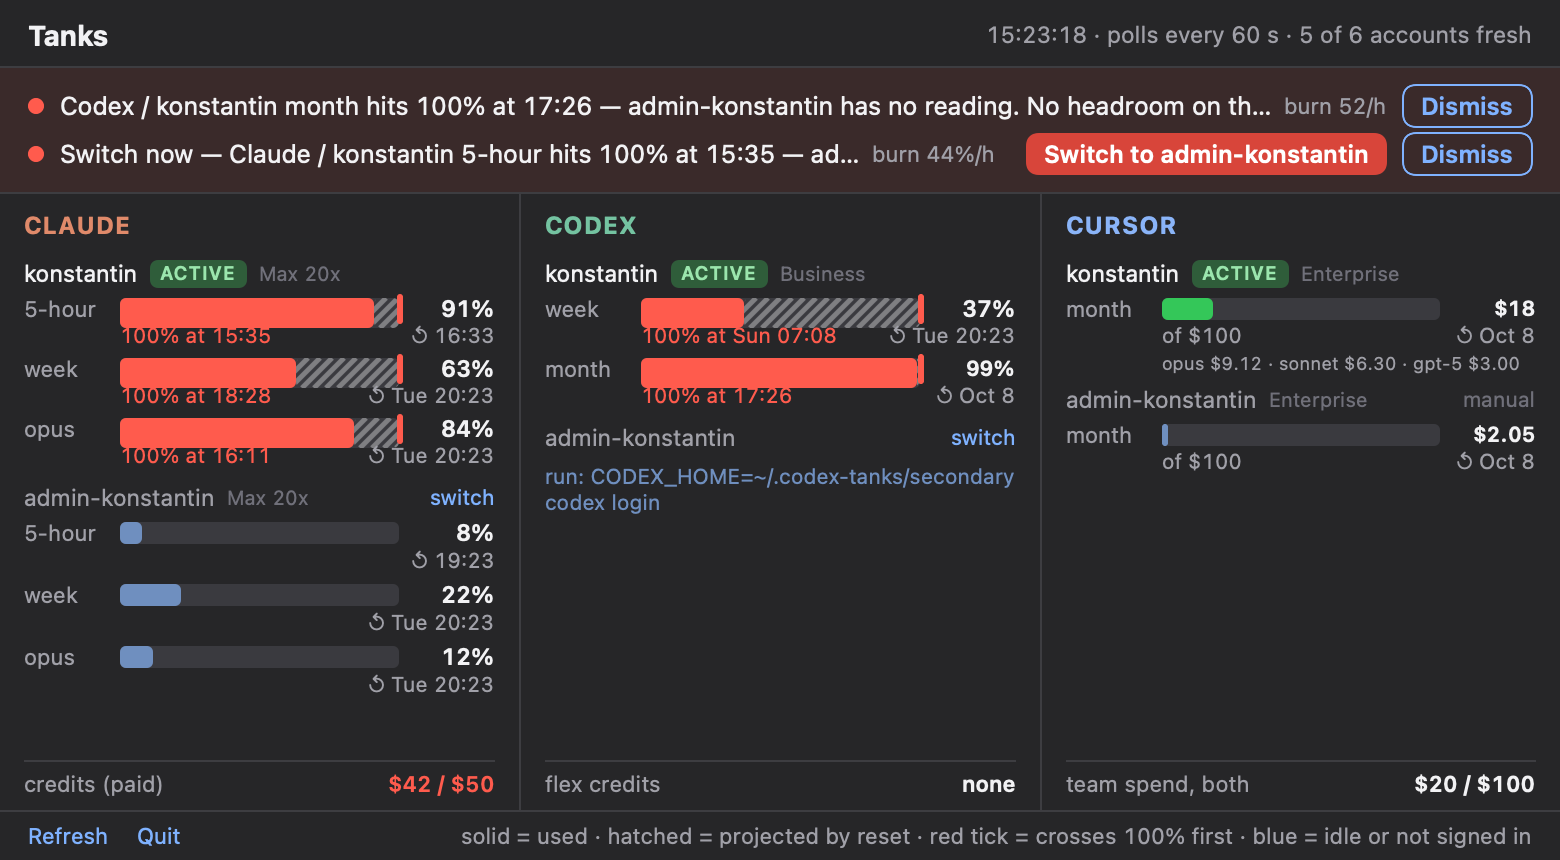
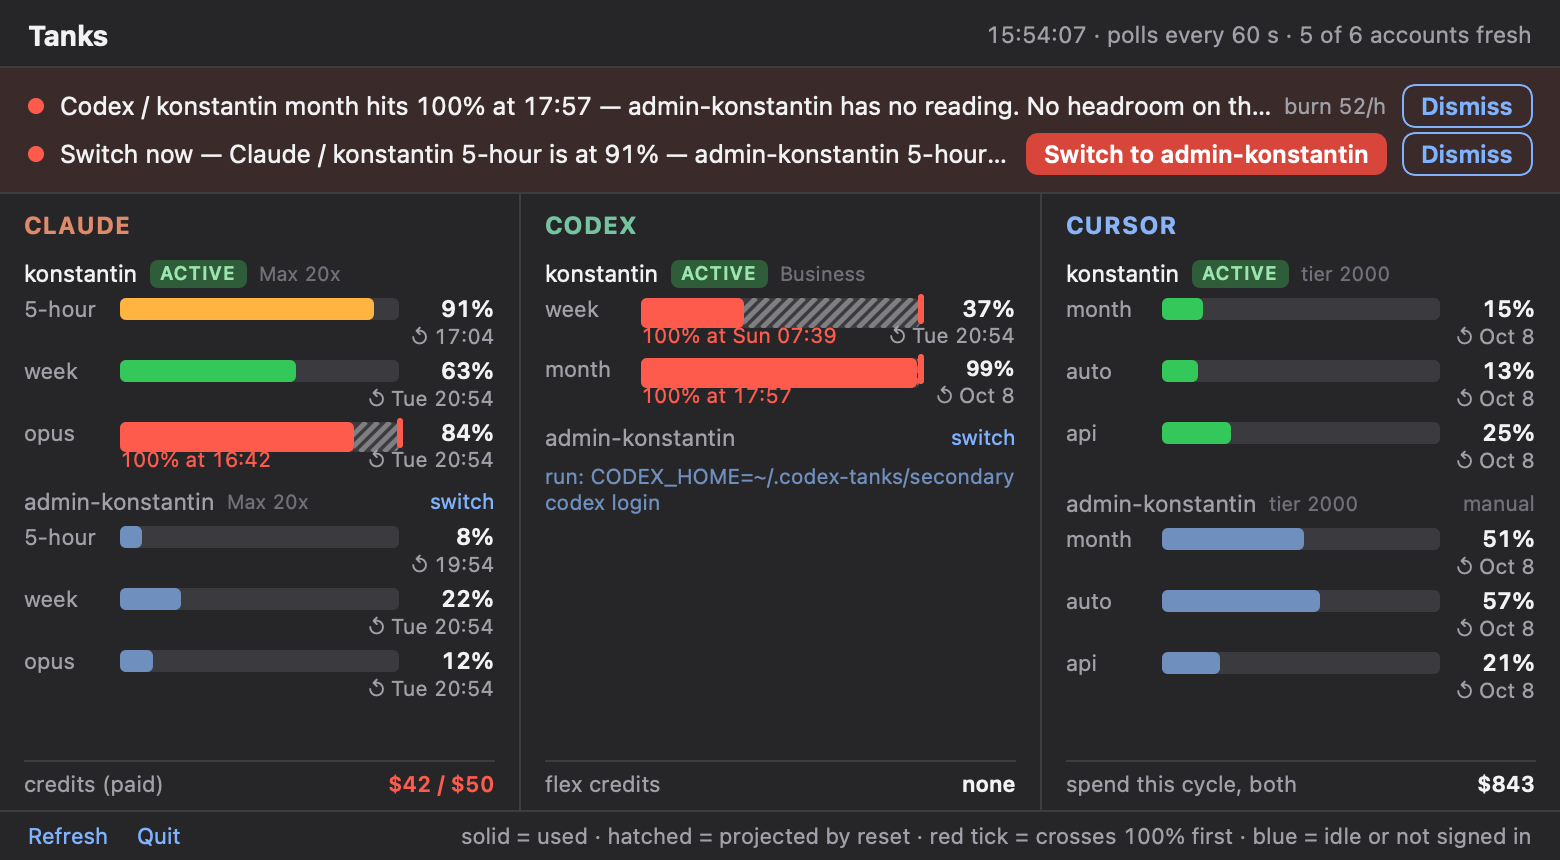
feat(cursor): allowance is the percent pools; dollars become the paid line
The Admin API's totalPercentUsed / autoPercentUsed / apiPercentUsed are the seat's included-usage gauges, so those are the tanks; spendCents is the paid line with the per-user limit when one is set. The spare-capacity rule skips tanks without a limit.

diff --git a/Sources/OpenUsage/Tanks/CursorTankSource.swift b/Sources/OpenUsage/Tanks/CursorTankSource.swift
@@ -10,6 +10,10 @@ actor CursorAdminFeed {
         var spendCents: Double
         var limitDollars: Double?
         var cycleStart: Date?
+        var totalPercent: Double?
+        var autoPercent: Double?
+        var apiPercent: Double?
+        var tier: String?
     }
 
     static let spendURL = URL(string: "https://api.cursor.com/teams/spend")!
@@ -73,7 +77,11 @@ actor CursorAdminFeed {
                 email: email,
                 spendCents: ProviderParse.number(row["spendCents"]) ?? 0,
                 limitDollars: limit.flatMap { $0 > 0 ? $0 : nil },
-                cycleStart: cycleStart
+                cycleStart: cycleStart,
+                totalPercent: ProviderParse.number(row["totalPercentUsed"]),
+                autoPercent: ProviderParse.number(row["autoPercentUsed"]),
+                apiPercent: ProviderParse.number(row["apiPercentUsed"]),
+                tier: row["billingTier"] as? String
             )
         }
     }
@@ -93,11 +101,27 @@ struct CursorTankSource: TankSource {
             throw TankSourceError.notSignedIn("\(account.email) is not on the team's spend list")
         }
         let cycleEnd = me.cycleStart.flatMap { Calendar.current.date(byAdding: .month, value: 1, to: $0) }
-        let month = Tank(
-            key: "month", label: "month", used: me.spendCents / 100, limit: me.limitDollars ?? 0,
-            format: .dollars, resetsAt: cycleEnd, periodSeconds: 30 * 86400,
-            note: me.limitDollars == nil ? "no per-user limit set" : nil
-        )
-        return AccountReading(account: account, plan: "Enterprise", tanks: [month], fetchedAt: now())
+        // The allowance is the percent fields: `totalPercentUsed` is the share of the seat's included
+        // monthly usage consumed, split into the auto-mode and API pools. Dollars are the paid line.
+        var tanks: [Tank] = []
+        if let total = me.totalPercent {
+            tanks.append(Tank(key: "month", label: "month", used: total, limit: 100, format: .percent,
+                              resetsAt: cycleEnd, periodSeconds: 30 * 86400))
+        }
+        if let auto = me.autoPercent {
+            tanks.append(Tank(key: "auto", label: "auto", used: auto, limit: 100, format: .percent,
+                              resetsAt: cycleEnd, periodSeconds: 30 * 86400))
+        }
+        if let api = me.apiPercent {
+            tanks.append(Tank(key: "api", label: "api", used: api, limit: 100, format: .percent,
+                              resetsAt: cycleEnd, periodSeconds: 30 * 86400))
+        }
+        tanks.append(Tank(
+            key: "spend", label: "spend", used: me.spendCents / 100, limit: me.limitDollars ?? 0,
+            format: .dollars, resetsAt: cycleEnd, periodSeconds: 30 * 86400, isPaid: true,
+            note: me.limitDollars == nil ? "no limit" : nil
+        ))
+        let plan = me.tier.map { $0.replacingOccurrences(of: "TIER_", with: "tier ") } ?? "Enterprise"
+        return AccountReading(account: account, plan: plan, tanks: tanks, fetchedAt: now())
     }
 }

diff --git a/Sources/OpenUsage/Tanks/TanksSnapshot.swift b/Sources/OpenUsage/Tanks/TanksSnapshot.swift
@@ -92,11 +92,17 @@ enum TanksSnapshot {
         ], fetchedAt: now)
         let codexS = AccountReading(account: acct(.codex, .secondary), plan: nil, tanks: [], fetchedAt: now,
                                     status: .signedOut(reason: "run: CODEX_HOME=~/.codex-tanks/secondary codex login"))
-        let cursorP = AccountReading(account: acct(.cursor, .primary), plan: "Enterprise", tanks: [
-            Tank(key: "month", label: "month", used: 18.42, limit: 100, format: .dollars, resetsAt: in12d, periodSeconds: 30 * 86400),
-        ], byModel: [("opus", 9.12), ("sonnet", 6.30), ("gpt-5", 3.00)], fetchedAt: now)
-        let cursorS = AccountReading(account: acct(.cursor, .secondary), plan: "Enterprise", tanks: [
-            Tank(key: "month", label: "month", used: 2.05, limit: 100, format: .dollars, resetsAt: in12d, periodSeconds: 30 * 86400),
+        let cursorP = AccountReading(account: acct(.cursor, .primary), plan: "tier 2000", tanks: [
+            Tank(key: "month", label: "month", used: 15, limit: 100, format: .percent, resetsAt: in12d, periodSeconds: 30 * 86400),
+            Tank(key: "auto", label: "auto", used: 13, limit: 100, format: .percent, resetsAt: in12d, periodSeconds: 30 * 86400),
+            Tank(key: "api", label: "api", used: 25, limit: 100, format: .percent, resetsAt: in12d, periodSeconds: 30 * 86400),
+            Tank(key: "spend", label: "spend", used: 129.42, limit: 0, format: .dollars, isPaid: true, note: "no limit"),
+        ], fetchedAt: now)
+        let cursorS = AccountReading(account: acct(.cursor, .secondary), plan: "tier 2000", tanks: [
+            Tank(key: "month", label: "month", used: 51, limit: 100, format: .percent, resetsAt: in12d, periodSeconds: 30 * 86400),
+            Tank(key: "auto", label: "auto", used: 57, limit: 100, format: .percent, resetsAt: in12d, periodSeconds: 30 * 86400),
+            Tank(key: "api", label: "api", used: 21, limit: 100, format: .percent, resetsAt: in12d, periodSeconds: 30 * 86400),
+            Tank(key: "spend", label: "spend", used: 713.58, limit: 0, format: .dollars, isPaid: true, note: "no limit"),
         ], fetchedAt: now)
         return [claudeP0, claudeP, claudeS, codexP0, codexP, codexS, cursorP, cursorS]
     }

diff --git a/Sources/OpenUsage/Tanks/TanksDashboardView.swift b/Sources/OpenUsage/Tanks/TanksDashboardView.swift
@@ -166,12 +166,12 @@ private struct VendorColumn: View {
         HStack {
             switch vendor {
             case .cursor:
-                let months = states.compactMap { $0.projections.first { $0.tank.key == "month" }?.tank }
-                let total = months.map(\.used).reduce(0, +)
-                let limit = months.first?.limit ?? 0
-                Text("team spend, both").foregroundStyle(palette.dim)
+                let spends = states.compactMap { $0.projections.first { $0.tank.key == "spend" }?.tank }
+                let total = spends.map(\.used).reduce(0, +)
+                let limit = spends.map(\.limit).reduce(0, +)
+                Text("spend this cycle, both").foregroundStyle(palette.dim)
                 Spacer()
-                Text(months.isEmpty ? "—" : "\(Fmt.dollars(total)) / \(limit > 0 ? Fmt.dollars(limit) : "no limit")").fontWeight(.semibold)
+                Text(spends.isEmpty ? "—" : "\(Fmt.dollars(total))\(limit > 0 ? " / \(Fmt.dollars(limit))" : "")").fontWeight(.semibold)
             default:
                 if let paid {
                     Text(paid.tank.label).foregroundStyle(palette.dim)

diff --git a/Sources/OpenUsage/Tanks/Advisor.swift b/Sources/OpenUsage/Tanks/Advisor.swift
@@ -126,7 +126,7 @@ enum Advisor {
     /// on its own).
     private static func spareCapacity(_ assessments: [AccountAssessment]) -> [Advice] {
         assessments.compactMap { assessment in
-            let candidates = assessment.projections.filter { !$0.tank.isPaid && $0.tank.periodSeconds ?? 0 >= 6 * 3600 }
+            let candidates = assessment.projections.filter { !$0.tank.isPaid && $0.tank.limit > 0 && $0.tank.periodSeconds ?? 0 >= 6 * 3600 }
             guard let longest = candidates.max(by: { ($0.tank.periodSeconds ?? 0) < ($1.tank.periodSeconds ?? 0) }),
                   let projectedFill = longest.projectedFill ?? (longest.ratePerHour == nil ? Optional(longest.fill) : nil),
                   1 - projectedFill > spareCapacity,

diff --git a/Sources/OpenUsage/Support/AppLog.swift b/Sources/OpenUsage/Support/AppLog.swift
@@ -93,7 +93,7 @@ enum AppLog {
         // and the startup line actually self-documents where the log lives.
         let displayPath = (LogFile.url.path as NSString).abbreviatingWithTildeInPath
         info(LogTag.config.rawValue,
-             "OpenUsage v\(AppInfo.version) starting (level=\(level.rawValue), log=\(displayPath))")
+             "Tanks v\(AppInfo.version) starting (level=\(level.rawValue), log=\(displayPath))")
     }
 
     /// Re-read the persisted level into the cache. Invoked from the Settings picker `.onChange` so a
